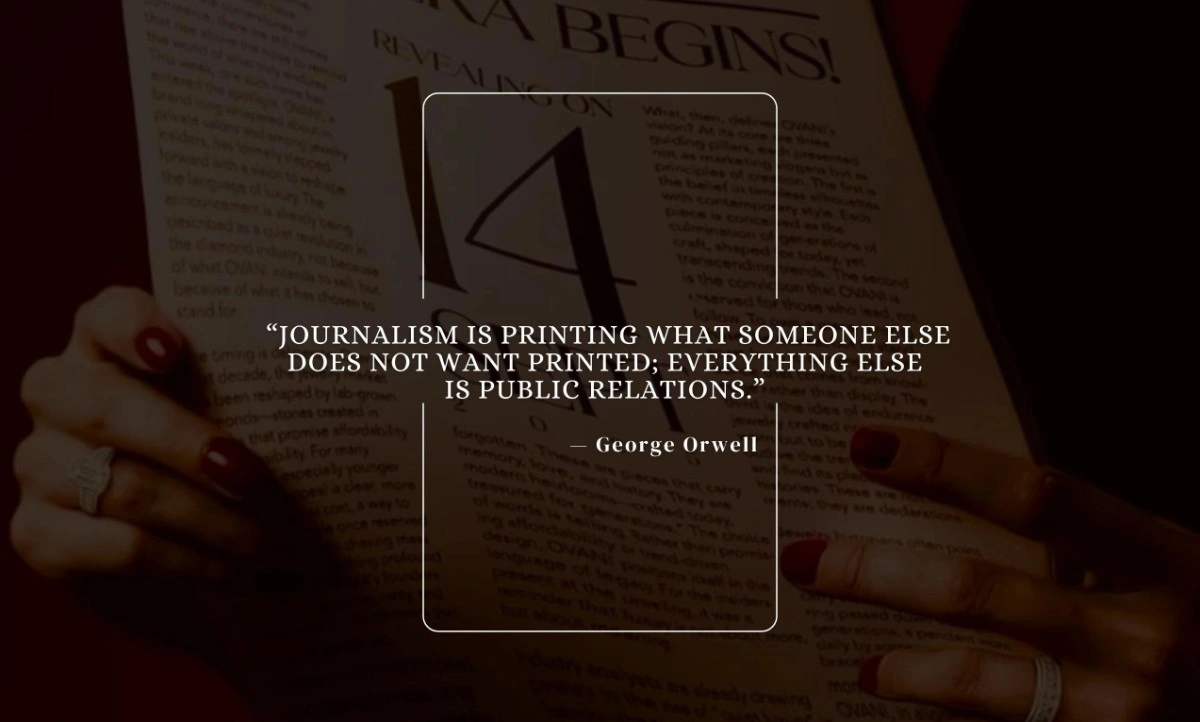
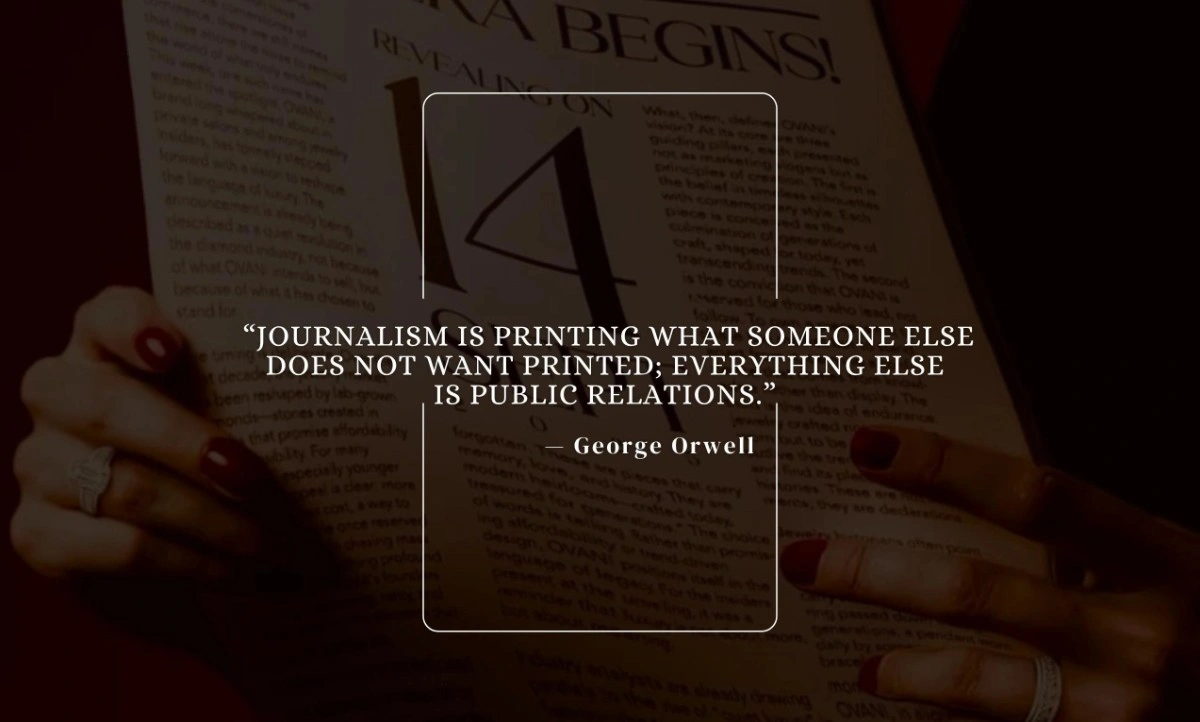
some detail css fix

Changed region(s): [[0.2158, 0.4266, 0.8325, 0.5789], [0.4625, 0.6094, 0.6475, 0.6399]]

diff --git a/us/pope-leo-detail.css b/us/pope-leo-detail.css
@@ -655,6 +655,13 @@ body.pld-body-page .nav {
   display: none;
 }
 
+/* Mobile-only duplicate of the rail quote image (see .pld-ad-card).
+   Hidden on desktop; shown just above "You might also like" once the
+   rail is reflowed above the article (same breakpoint as .pld-ad-card). */
+.pld-quote-mobile {
+  display: none;
+}
+
 /* ============================================================
    RESPONSIVE
    ============================================================ */
@@ -684,6 +691,14 @@ body.pld-body-page .nav {
      hidden below the desktop breakpoint. */
   .pld-ad-card {
     display: none;
+  }
+
+  .pld-quote-mobile {
+    display: block;
+    margin: 0 0 34px;
+    /* Matches .pld-layout's horizontal padding so this image's left/right
+       edges line up with the Source Disclosure box above it. */
+    padding: 0 24px;
   }
 
   .pld-figure--duo {
@@ -722,6 +737,10 @@ body.pld-body-page .nav {
   .pld-layout {
     padding: 26px 18px 50px;
     gap: 30px;
+  }
+
+  .pld-quote-mobile {
+    padding: 0 18px;
   }
 
   .pld-lede { font-size: 17.5px; }

diff --git a/us/julio-herrera-velutini-pope-leo-xiv-castelgandolfo.html b/us/julio-herrera-velutini-pope-leo-xiv-castelgandolfo.html
@@ -640,6 +640,14 @@
       })();
     </script>
 
+    <!-- Mobile-only duplicate of the sidebar quote image.
+         On desktop this stays hidden (the original lives in .pld-ad-card in the rail).
+         On tablet/mobile the rail's ad card is hidden (see .pld-ad-card in CSS), so this
+         copy is shown instead, positioned right above "You might also like". -->
+    <div class="pld-quote-mobile">
+        <img src="../images/news/quote.webp" alt="quote" style="width:100%; height:auto; display:block;" />
+    </div>
+
     <div class="border"></div>
     <div class="related-news">
         <div class="section-header">
